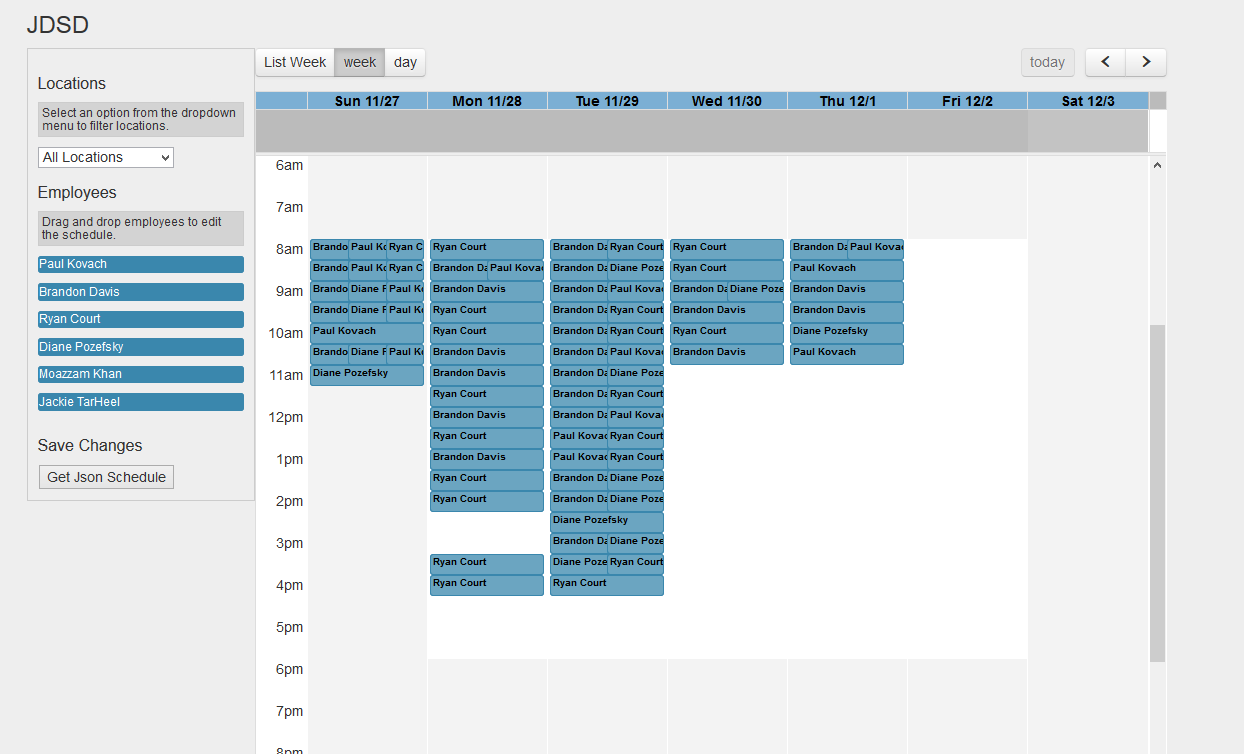
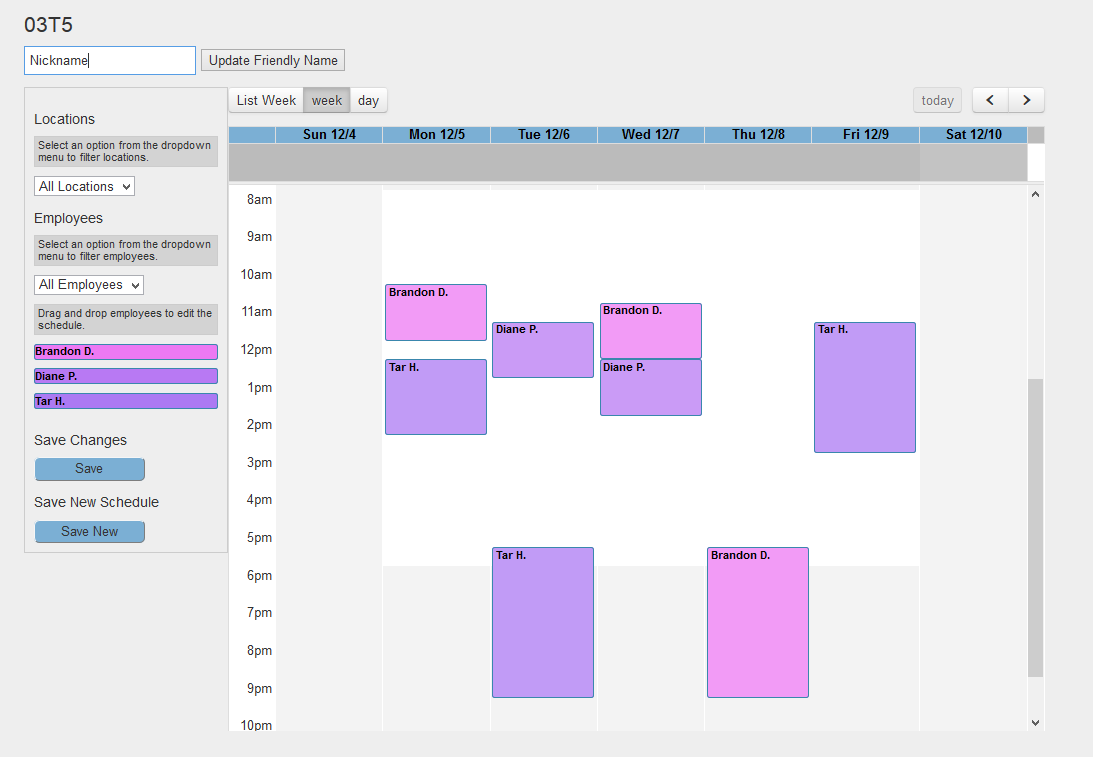
Updated Admin Help Page and images

diff --git a/app/templates/admin_help.html b/app/templates/admin_help.html
@@ -34,24 +34,38 @@
         <h2 id='ManagingYourUsers'>Managing Your Users</h2>
         <p>
 
-            Under the Admin tab you can manage the different users of the application. You can create a new user in
-            the create new users in the create new users table. To create a new user must enter the users PID, their
-            email, and their status as either a returning employee, new employee or an administrator. You MUST hit
-            create in order for the user to be created for the application. Additionally, you may paste a CSV file in
-            order to create a group of users at once. However, in order for this feature to work you must follow the
-            provided format. For example, entering the following:  "John","Doe","720384009","jdoe@live.unc.edu","010"
-            would create a employee user named John Doe.
+            Under the Admin tab you can manage the different users of the application and change which schdule is the
+            currently displayed master schedule.
         </p>
         <p>
-            Under the users table, you can manage the users of the application. You can delete users, toggle
-            employees between returning and new, and set which users you want to try scheduling (green users will be
-            used for scheduling).
+            <strong>ADDING A USER:</strong>
+            You can create a new user in the create new users in the create new users table. To create a new user you
+            must enter the users PID, their email, and their status as either a returning employee, new employee or
+            an administrator. You MUST hit create in order for the user to be created for the application.
+            Additionally, you may paste a CSV file in order to create a group of users at once. However, in order for
+            this feature to work you must follow the provided format. For example, entering the following:
+            "John","Doe","720384009","jdoe@live.unc.edu","010" would create a employee user named John Doe.
         </p>
         <p>
+            <strong>MANAGING USERS:</strong>
+            Under the users table, you can manage the users of the application. You can delete users via the trash
+            can icon , toggle employees between returning and new via the person icon, select a new color for a
+            person (the color that they will be displayed as when you are looking at the master schedule) via the
+            diamond button and set which users you want to try scheduling via the radio button icon (green users will
+            be used for scheduling).
+        </p>
+        <p>
+            <strong>GENERATING A NEW SCHEDULE: </strong>
             Under the Schedules table, you can click the run scheduler to run the scheduler on the currently selected
-            employees. The current master schedule is highlighted in green and can be toggled on the right column of
-            the table. In addition, you can view any of the generated schedules by clicking on their names in the
-            left column.
+            employees.
+        </p>
+        <p>
+            <strong>MANAGING SCHEDULES</strong>
+            The current master schedule is highlighted in green and can be toggled on and off in the right column of
+            the table via the radio button icon. These schedules can be deleted via the trash can button. You may
+            export any schedule to CSV via the button with spreadsheet icon.  In addition, you can view any of the
+            generated schedules by clicking on their names in the left column. The nickname of a schedule may be
+            altered when viewing the actual schedule in the schedule tab.
         </p>
         <img src="{{ url_for('static', filename='assets/Admin.PNG') }}" alt='User management page' width='700'
              height='500' style="display: block; margin: 0 auto;">
@@ -61,14 +75,20 @@
         <br>
 	<h2 id='ManageLocations'>Manage Locations</h2>
         <p>
-            Under the creation tab. You can create a schedule by giving it a name, a unique numeric code, an opening and
+            <strong>CREATING A NEW LOCATION:</strong>
+            Under the creation tab. You can create a schedule by giving it a name, an opening and
             closing time and specifying whether or not you would like the location to be returning employees only or any
-            employee type. Additionally locations can be edited from the the right table. You can update any of the
-            currently selected locations information and it will be updated upon submission. Note that both for schedule
-            creation and for updating schedules you must submit the data/changes before moving on to another page if you
-            want your changes to be saved.
+            employee type.
         </p>
         <p>
+            <strong>EDITING A LOCATIONS:</strong>
+            A locations information can be edited from the the right table. You can update any of the currently
+            selected locations information and it will be updated upon submission. Note that both for schedule
+            creation and for updating schedules you must submit the data/changes before moving on to another page if
+            you want your changes to be saved.
+        </p>
+        <p>
+            <strong>CREATING/UPDATING A LOCATIONS TIME SLOTS:</strong>
             The table view beneath the the data entry tables is used to display and edit information about different
             locations. A white entry (0) indicates that the location does not need any staff at that time. Light blue (1)
             is used to represent that one employee is needed for that time slot at the current selected location. Darker
@@ -78,6 +98,7 @@
             changed to the current location upon its selection.
         </p>
         <p>
+            <strong>DELETING A LOCATION:</strong>
             A location may be deleted by selecting the location that you want to delete from the tabs above the table
             then clicking the delete button below the table. This will open a prompt that will confirm that you do
             indeed want to delete the selected location before proceeding to delete the location.
@@ -100,8 +121,11 @@
 	<h2 id='Schedule'>Editing the Master Schedule</h2>
 
         <p>
-            Under the Schedule tab, you can edit and view the master schedule that you selected in the Admin tab. A
-            students name placed in a certain time slot represents that the student is currently scheduled to work at
+            Under the Schedule tab, you can edit and view the master schedule that you selected in the Admin tab. The
+            schedules four letter assigned name is displayed in the top right corner. If you would like to add a more
+            user-friendly nickname to the schedule this can be done via the text box below the four letter name. You
+            must submit this name before navigating away from the page. A students name placed in a certain time slot
+            represents that the student is currently scheduled to work at
             that time.
         </p>
         <p>
@@ -114,7 +138,9 @@
             <strong>ADDING A EMPLOYEE:</strong>
             On the left hand side of the schedule you can click and drag employees onto the schedule. This is done by
             dragging one of the employees names onto the schedule during the time slot that you would like to add the
-            student.
+            student. If you would like the employee to work more than thirty minutes during that time slot then you
+            must add them, then click and drag the bottom of their assigned time to extend the amount of time that
+            they are working in that time slot.
         </p>
         <p>
             <strong>MOVING AROUND EMPLOYEES:</strong>
@@ -122,11 +148,22 @@
             dropping their name from their current time slot to a different one.
         </p>
         <p>
+            <strong>EXTENDING AN EMPLOYEES HOURS:</strong>
+            The amount of time that an employee is working in a time slot can be extended by clicking and dragging
+            the bottom of their assigned time slot to the desired time and then releasing.
+        </p>
+        <p>
             <strong>FILTERING BY LOCATION:</strong>
-            On the left hand side of the schedule, you will seee a drop down menu. From here you can choose which
-            locations master schedule you would like to display or if you would like to see all of the locations at
-            once. Any changes that you make to an individual locations schedule must be submitted before the changes
-            are saved.
+            On the left hand side of the schedule, you will seee a drop down menu under the heading Locations. From
+            here you can choose which locations master schedule you would like to display or if you would like to see
+            all of the locations at once. Any changes that you make to an schedule must be submitted before the
+            changes are saved.
+        </p>
+        <p>
+            <strong>FILTERING BY EMPLOYEE:</strong>
+            On the left hand side of the schedule, you will see a drop down menu under the heading Employees. This
+            can be used to filter the individual employees and display only one employee on the schedule at time. You
+            can switch between an individual student and all students.
         </p>
         <p>
             <Strong>CHANGING THE AMOUNT OF TIME DISPLAYED:</Strong>
@@ -134,7 +171,20 @@
             calender or to display an individual day. This can be toggled by selecting different tabs in the top left
             corner of the calender.
         </p>
-
+        <p>
+            <Strong>SAVING AND OVERWRITING THE CURRENT SCHEDULE</Strong>
+            You can save the changes that you have made to the current schedule by clicking the save button located
+            in the lower left corner of the page. Note that none of your changes that you have made will be submitted
+            unless you save your changes before leaving the page. Additionally, once you have saved you changes the
+            original schedule will be overwritten and you cannot return the schedule to it's original state.
+        </p>
+        <p>
+            <Strong>SAVING SCHEDULE TO A NEW SCHEDULE</Strong>
+            You can save the edits that you have made into a new schedule by clicking the "Save New" button under the
+            save new schedule section of the page in the lower left corner. Note that unlike the "Save" button this
+            does not destroy the original copy of the schedule but rather saves it to a new schedule under a
+            different name thus both the original and the altered schedules will still be available.
+        </p>
 
 	<img src="{{ url_for('static', filename='assets/schedule.PNG') }}" alt='View Schedule Image'  width='700'
              height='500' style="display: block; margin: 0 auto;">

diff --git a/app/config.py b/app/config.py
@@ -8,7 +8,7 @@ import os
 import uuid
 
 # For the local environment
-ADMIN_PID = 720430213 # A user to test admin function on local dev
+ADMIN_PID = 720399007 # A user to test admin function on local dev
 NOADMIN_PID = 3 # A user to test non-admin function on local dev
 LOCAL = False if os.getenv("OPENSHIFT_MONGODB_DB_HOST", False) else True
 SSO_LOGOUT_URL = "https://sso.unc.edu/idp/logout.jsp"
